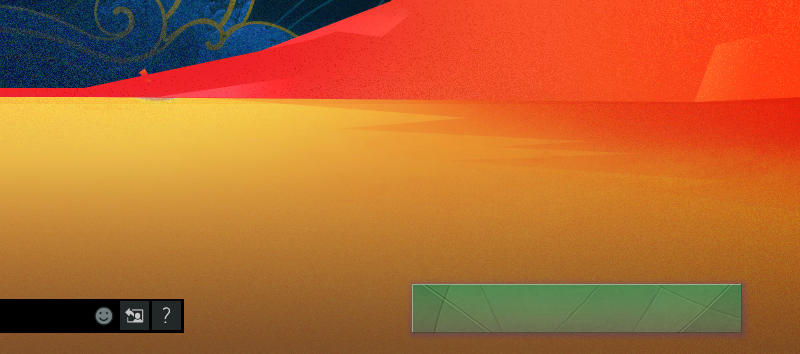
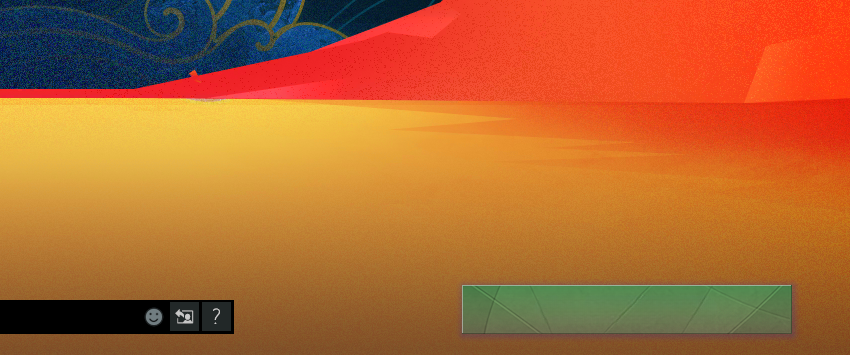
fix find-match-overlay

diff --git a/src/components/Overlay/main/FindMatch.tsx b/src/components/Overlay/main/FindMatch.tsx
@@ -49,8 +49,8 @@ export const FindMatch = () => {
         </div>
 
         <img
-          width={res({ w: 800 })}
-          height={res({ h: 354 })}
+          width={res({ w: 850 })}
+          height={res({ h: 355 })}
           src="/images/overlay/finding-match.png"
           alt="Finding Match"
         />
